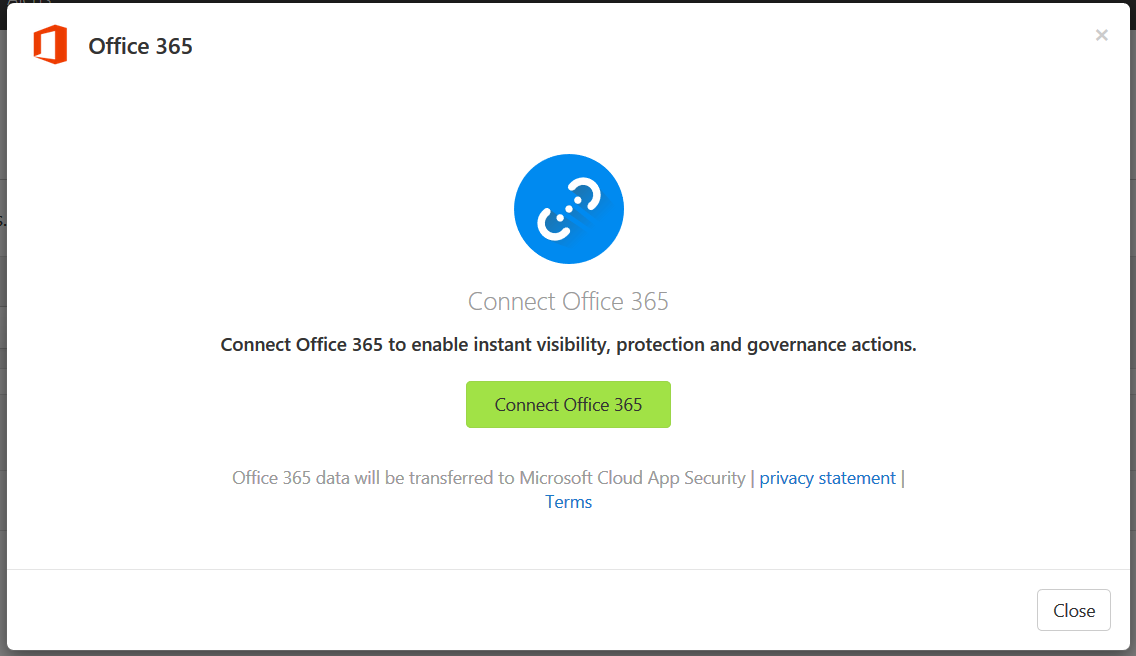
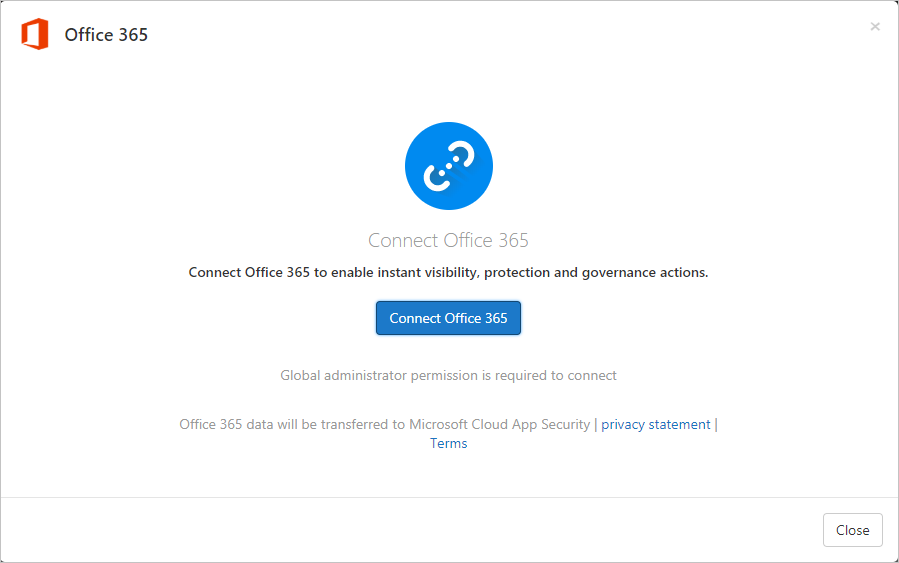
Updates to connection steps + refresh images

Changed region(s): [[0.0, 0.0, 1.0, 1.0], [0.1869, 0.2114, 0.8098, 0.8153]]

diff --git a/CloudAppSecurityDocs/connect-office-365-to-microsoft-cloud-app-security.md b/CloudAppSecurityDocs/connect-office-365-to-microsoft-cloud-app-security.md
@@ -7,7 +7,7 @@ keywords:
 author: shsagir
 ms.author: shsagir
 manager: shsagir
-ms.date: 7/30/2019
+ms.date: 08/17/2020
 ms.topic: conceptual
 ms.collection: M365-security-compliance
 ms.prod:
@@ -70,16 +70,25 @@ Cloud App Security supports the following Office 365 apps:
 
 1. In **Connected apps** page, click the plus button and select **Office 365**.
 
-    ![connect 0365](media/connect-0365.png)
+    ![connect 0365](media/connect-o365.png)
 
-2. In the Office 365 pop-up, click **Connect Office 365**.
+1. In the Office 365 pop-up, click **Connect Office 365**.
 
     ![connect 0365](media/office-connect.png)
 
-3. After Office 365 is displayed as successfully connected, click **Close**.
+1. In the Office 365 components page, select the options you require, and then click **Connect**.
+
+    > [!NOTE]
+    >
+    > - For best protection, we recommend selecting all Office 365 components.
+    > - The **Office 365 files** component, requires the **Office 365 activities** component and Cloud App Security file monitoring (**Settings** > **Files** > **Enable file monitoring**).
+
+    ![connect 0365 components](media/connect-o365-components.png)
+
+1. After Office 365 is displayed as successfully connected, click **Close**.
 
 > [!NOTE]
-> After connecting Office 365, you will see data from a week back including any third-party applications connected to Office 365 that are pulling APIs. For third-party apps that weren't pulling APIs prior to connection, you see events from the moment you connect Office 365, because Cloud App Security turns on any APIs that had been off by default.
+> After connecting Office 365, you will see data from a week back including any third-party applications connected to Office 365 that are pulling APIs. For third-party apps that weren't pulling APIs prior to connection, you see events from the moment you connect Office 365 because Cloud App Security turns on any APIs that had been off by default.
 
 If you have any problems connecting the app, see [Troubleshooting App Connectors](troubleshooting-api-connectors-using-error-messages.md).
 
